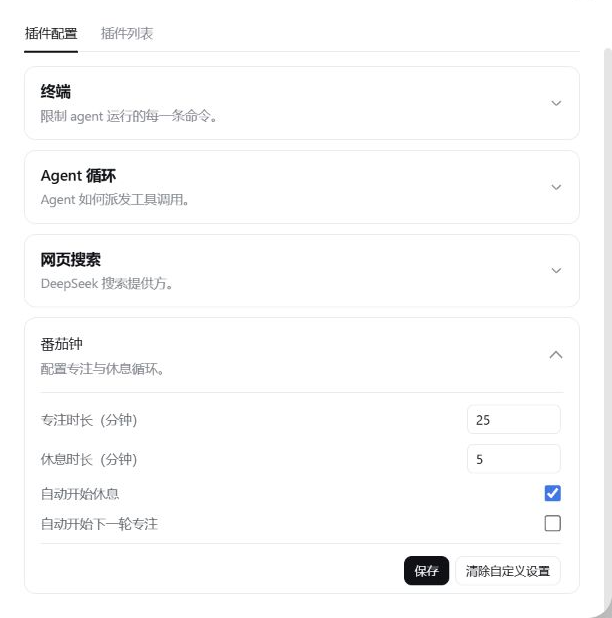
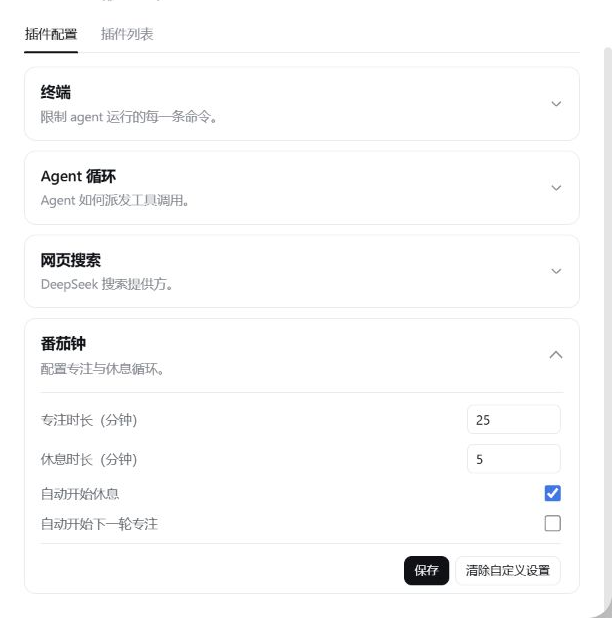
fix: 对齐番茄钟设置标题字重

diff --git a/lib/client.js b/lib/client.js
@@ -44,7 +44,7 @@ window.__ModuleLoader__.load({
 .pomo-settings-card-open { background: var(--dsw-alias-bg-layer-2); border-color: var(--dsw-alias-label-dimmed); }
 .pomo-card-header { width: 100%; display: flex; align-items: center; gap: 12px; appearance: none; border: none; background: transparent; color: inherit; text-align: left; cursor: pointer; padding: 14px 16px; border-radius: 12px; font-family: var(--dsw-font-family); }
 .pomo-card-headtext { flex: 1; min-width: 0; display: flex; flex-direction: column; gap: 4px; }
-.pomo-card-name { font: var(--dsw-font-s-strong-14); color: var(--dsw-alias-label-primary); }
+.pomo-card-name { font-size: 15px; font-weight: 600; line-height: 1.4; color: var(--dsw-alias-label-primary); }
 .pomo-card-description { font: var(--dsw-font-xs-13); color: var(--dsw-alias-label-tertiary); }
 .pomo-card-chevron { flex: none; width: 8px; height: 8px; margin: 0 3px 4px 0; border-right: 1.5px solid currentColor; border-bottom: 1.5px solid currentColor; color: var(--dsw-alias-label-tertiary); transform: rotate(45deg); transition: transform 0.16s; }
 .pomo-settings-card-open .pomo-card-chevron { margin-bottom: -4px; transform: rotate(225deg); }
